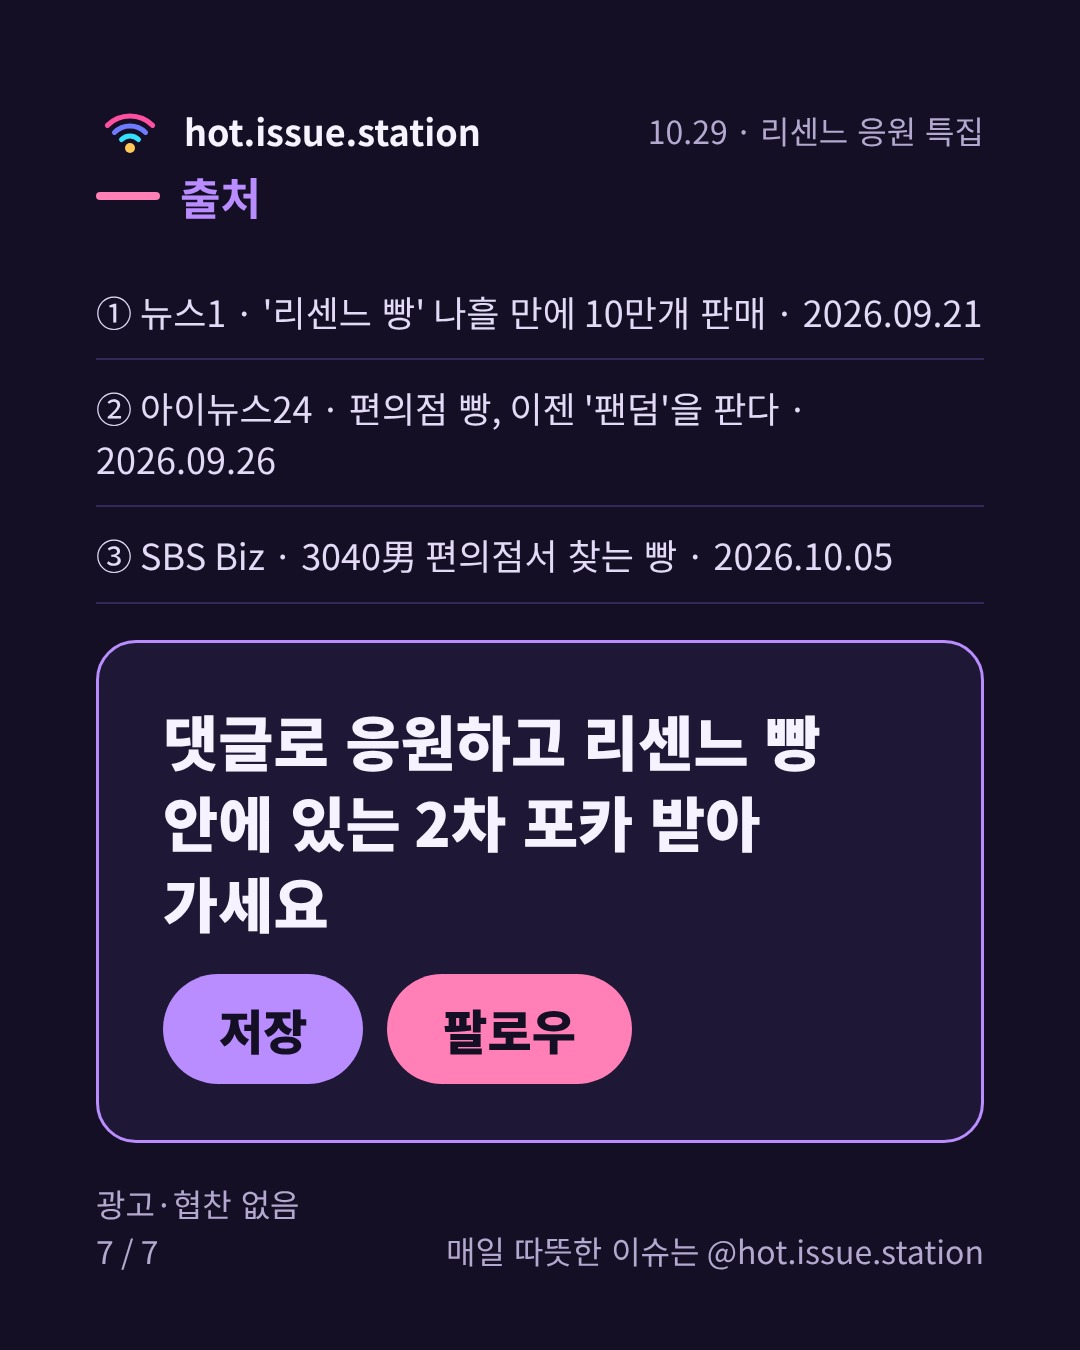
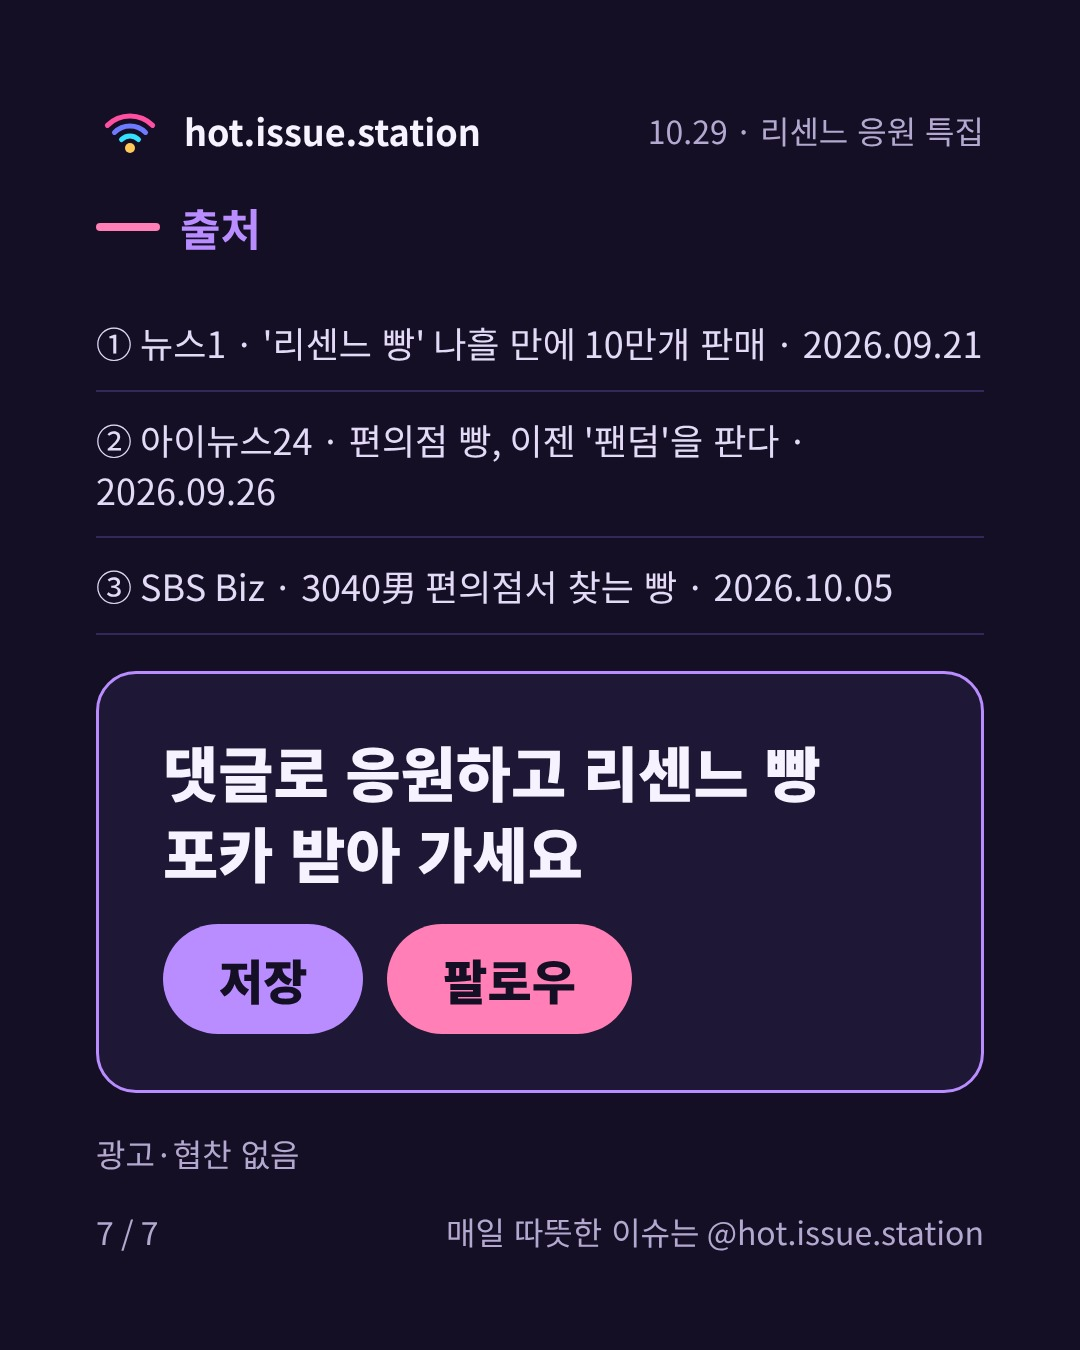
포카 표기 '리센느 빵 포카'로 변경 (대표 지시 10/29 16:51, '2차' 빼기)
Claude-Session: https://claude.ai/code/session_017sdLagaiWb4rEASbYkm7nL

diff --git a/scripts/make_event_cards.py b/scripts/make_event_cards.py
@@ -5,7 +5,7 @@ event.json 형식:
 {
   "date": "2026-10-29",
   "photos": {"cover": "경로", "a": "경로", "b": "경로"},   # 대표가 직접 찍은 빵·포카 사진만
-  "prize": "리센느 빵 안에 있는 2차 포카",                  # 표기 규칙(대표 10/29): 그냥 '포카'라고 쓰지 않는다
+  "prize": "리센느 빵 포카",                  # 표기 규칙(대표 10/29): 그냥 '포카'라고 쓰지 않는다
   "have": 2, "goal": "7장 안팎",                            # 지금 모은 수, 컴백 날까지 모을 목표
   "start": "10월 29일(목)", "end": "11월 9일(월) 밤 11:59", "finalize": "11월 3일(화) 컴백 날", "announce": "11월 10일(화)",
   "question": "…"                                          # 7장 댓글 질문
@@ -64,7 +64,7 @@ def cards(ev):
             f'<div style="position:absolute;right:40px;top:{ph - 120}px;padding:8px 18px;border-radius:999px;background:rgba({T.BGRGB},.7);color:{T.SOFT};font-size:24px">직접 찍은 사진</div>')
     out.append(mp.frame(f"""<div style="flex:1;display:flex;flex-direction:column;justify-content:flex-end;gap:22px;padding-bottom:24px">
 {pill}
-<div style="font-size:76px;font-weight:900;line-height:1.2">댓글로 응원하고<br><span style="color:{T.CYAN}">2차 포카</span> 받아 가세요</div>
+<div style="font-size:76px;font-weight:900;line-height:1.2">댓글로 응원하고<br><span style="color:{T.CYAN}">리센느 빵 포카</span><br>받아 가세요</div>
 <div style="font-size:38px;line-height:1.45;color:{T.SOFT}">{E(P)}를 응원 랭킹 상위 분께 나눠 드려요</div></div>""",
                         label, 1, "밀어서 다음 장 →", deco=deco))
     # 2 무엇을 드리나요

diff --git a/scripts/make_ranking_board.py b/scripts/make_ranking_board.py
@@ -78,7 +78,7 @@ body{{margin:0;word-break:keep-all;font-family:'Noto Sans CJK KR','Noto Sans KR'
 {body}
 <div style="flex:1"></div>
 <div style="padding:24px 32px;border-radius:26px;background:linear-gradient(90deg,{ACC}38,{PINK}30);border:2px solid {ACC}">
-<div style="font-size:40px;font-weight:900;line-height:1.35">상위 분께 리센느 빵 안에 있는 2차 포카를 드려요</div>
+<div style="font-size:40px;font-weight:900;line-height:1.35">상위 분께 리센느 빵 포카를 드려요</div>
 <div style="font-size:28px;color:{SOFT};margin-top:6px;line-height:1.45">수량 소진 시 종료 · 멤버 무작위 · Instagram과 무관 · 아이디는 일부만 보여요</div></div>
 </div></div></body></html>"""
 

diff --git a/assets/rescene/README.md b/assets/rescene/README.md
@@ -29,7 +29,7 @@
 
 ## 11/3 컴백 기념 포카 나눔 이벤트
 - (10/29 대표 결정) **팔로우 보너스 +3점 추가.** 기존 점수(댓글 단 날 +1, 베스트 댓글 +3)에 더하기만 한다. 인스타 API로 팔로워를 알 수 없어 마감(11/9 23:59) 뒤 대표가 상위권 15명 안팎의 팔로우 여부를 앱에서 직접 확인 → Claude가 data/ranking/follow_bonus.json 에 반영 → 최종 순위로 11/10 발표. **11/3 응원 특집(수량 확정 안내)에서 "팔로우 보너스 +3점이 추가됐어요(마감 뒤 확인)"를 공지한다.** 현황판·소개글의 점수 규칙 줄도 같이 바꾼다.
-- (10/29 대표 지시) 카드·캡션·현황판 등 팔로워에게 보이는 글에서는 그냥 "포카"라고 쓰지 않고 "리센느 빵 안에 있는 2차 포카"라고 쓴다.
+- (10/29 16:51 대표 지시, 15시 지시를 바꿈) 카드·캡션·현황판 등 팔로워에게 보이는 글에서는 "리센느 빵 포카"라고 쓴다. "2차 포카"는 쓰지 않는다(이벤트 포카 2장이 2탄(10/26~) 포카인지 미개봉 상태로는 확인할 수 없음). 앞으로 사는 빵은 봉지 뒷면 제조일·소비기한 사진을 남긴다.
 - (10/29 대표 결정) 나눔 대상은 추첨이 아니라 응원 랭킹 상위 분(scripts/rank_comments.py, 현황판 scripts/make_ranking_board.py). (대표 제안 10/28, 결정 대기 · 제작은 11/3 응원 특집에서)
 - 대표가 산 리센느 빵 2개에 든 미개봉 포카 2장만 나눔한다(빵은 대표가 먹음). 응원 댓글 작성자 중 추첨 2명, 계정 팔로우 조건, 마감은 발표 1주 뒤.
 - 안내문 필수: "이 이벤트는 Instagram과 관련 없습니다", 기간·인원·발표일·발송 방법, 미개봉이라 멤버는 무작위.
